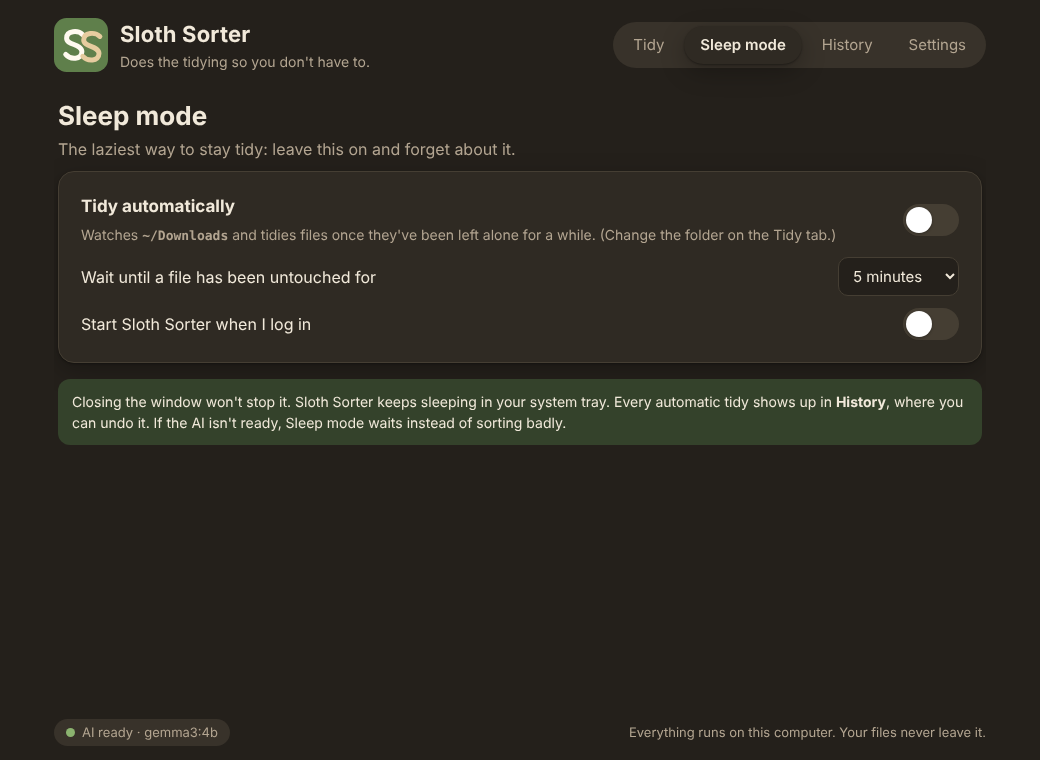
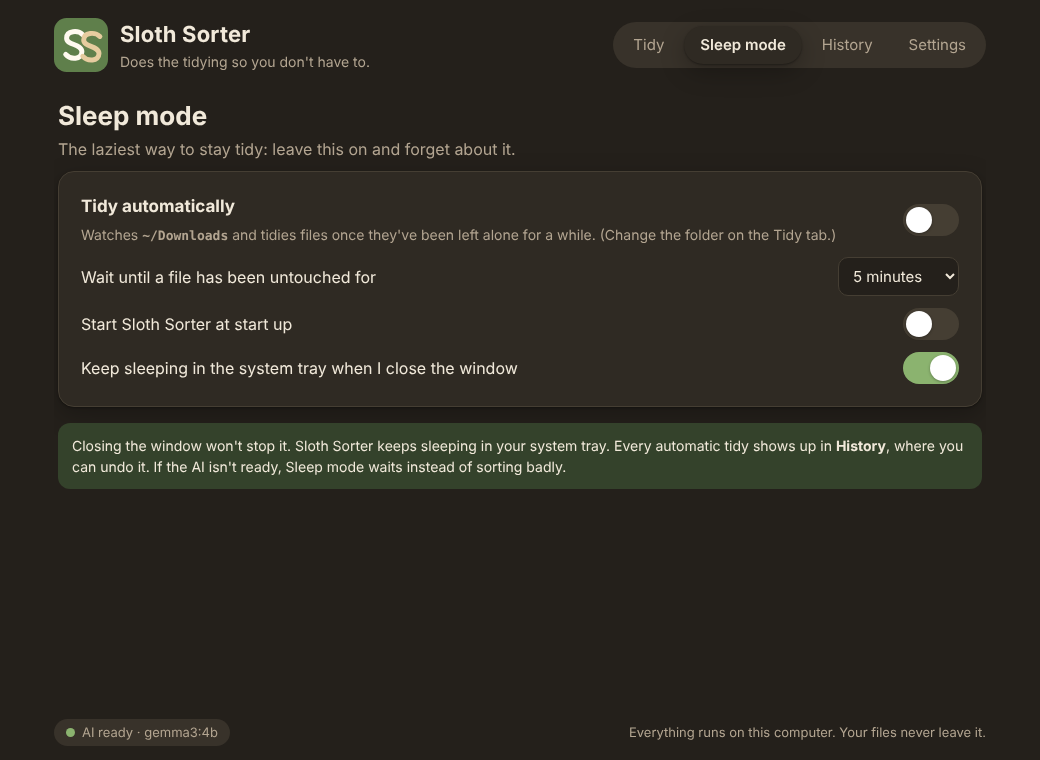
Add sleep mode feature and update UI for tray functionality

Changed region(s): [[0.0308, 0.4237, 0.9538, 0.6658]]

diff --git a/src/renderer/app.js b/src/renderer/app.js
@@ -377,18 +377,25 @@
           <select id="mins">${[2, 5, 10, 30, 60].map((m) => `<option value="${m}" ${m === s.autoMinutes ? 'selected' : ''}>${m} minutes</option>`).join('')}</select>
         </div>
         <div class="row spread">
-          <label for="login" class="grow">Start Sloth Sorter when I log in</label>
+          <label for="login" class="grow">Start Sloth Sorter at start up</label>
           <label class="switch"><input type="checkbox" id="login" ${s.startAtLogin ? 'checked' : ''}><span></span></label>
+        </div>
+        <div class="row spread">
+          <label for="tray" class="grow">Keep sleeping in the ${S.st.platform === 'darwin' ? 'menu bar' : 'system tray'} when I close the window</label>
+          <label class="switch"><input type="checkbox" id="tray" ${s.keepInTray !== false ? 'checked' : ''}><span></span></label>
         </div>
       </section>
       <div class="notice good">
-        Closing the window won't stop it. Sloth Sorter keeps sleeping in your ${S.st.platform === 'darwin' ? 'menu bar' : 'system tray'}.
+        ${s.keepInTray !== false
+          ? `Closing the window won't stop it. Sloth Sorter keeps sleeping in your ${S.st.platform === 'darwin' ? 'menu bar' : 'system tray'}.`
+          : 'Closing the window quits Sloth Sorter, and Sleep mode stops until you open it again.'}
         Every automatic tidy shows up in <b>History</b>, where you can undo it. If the AI isn't ready, Sleep mode waits instead of sorting badly.
       </div>
       ${S.lastAuto ? `<p class="small soft" style="margin-top:12px">Last automatic tidy: ${plural(S.lastAuto.moved, 'file', 'files')} at ${esc(new Date(S.lastAuto.at).toLocaleTimeString())}.</p>` : ''}`;
     $('#auto', main).onchange = async (e) => { await call('set-auto', e.target.checked); await refreshState(); toast(e.target.checked ? 'Sleep mode on. Go relax.' : 'Sleep mode off.'); };
     $('#mins', main).onchange = (e) => saveSettings({ autoMinutes: +e.target.value });
     $('#login', main).onchange = (e) => saveSettings({ startAtLogin: e.target.checked });
+    $('#tray', main).onchange = async (e) => { await saveSettings({ keepInTray: e.target.checked }); renderSleep(main); };
   }
 
   // ---------- HISTORY ----------
@@ -462,7 +469,7 @@
           <button class="btn danger" id="forget">Forget</button></div>
       </section>
       <section class="card small soft">
-        <b>Sloth Sorter ${esc(S.st.version)}</b> · open source (MIT). Powered by open-weight models running through Ollama on this computer.
+        <b>Sloth Sorter ${esc(S.st.version)}</b> is an open source (MIT) project created by <a href="https://github.com/Brage1025/" target="_blank" rel="noopener noreferrer">Brage1025</a>. Powered by open-weight models running through Ollama on this computer.
         It never uploads anything, and it never deletes your files.
       </section>`;
 

diff --git a/src/main.js b/src/main.js
@@ -257,8 +257,15 @@ function createWindow() {
     if (/^https:\/\//.test(url)) shell.openExternal(url);
     return { action: 'deny' };
   });
+  // A link must never replace the app's own page: open web links in the browser instead.
+  win.webContents.on('will-navigate', (e, url) => {
+    if (url !== win.webContents.getURL()) {
+      e.preventDefault();
+      if (/^https:\/\//.test(url)) shell.openExternal(url);
+    }
+  });
   win.on('close', (e) => {
-    if (!quitting && settings.autoMode && tray) {
+    if (!quitting && settings.autoMode && settings.keepInTray !== false && tray) {
       e.preventDefault(); // keep sleeping in the tray
       win.hide();
     }
@@ -338,6 +345,6 @@ if (!gotLock) {
   });
   app.on('before-quit', () => { quitting = true; if (cache) cache.flush(); });
   app.on('window-all-closed', () => {
-    if (process.platform !== 'darwin' && !(settings && settings.autoMode && tray)) app.quit();
+    if (process.platform !== 'darwin' && !(settings && settings.autoMode && settings.keepInTray !== false && tray)) app.quit();
   });
 }

diff --git a/src/renderer/styles.css b/src/renderer/styles.css
@@ -223,3 +223,6 @@ textarea::-webkit-scrollbar-thumb { border-width: 3px; }
 
 .folder-ico { color: var(--amber); vertical-align: -3px; flex: none; }
 .cat-name { display: inline-flex; align-items: center; gap: 8px; }
+
+a { color: var(--moss); font-weight: 600; text-decoration: underline; text-underline-offset: 2px; }
+a:hover { filter: brightness(1.15); }

diff --git a/src/core/config.js b/src/core/config.js
@@ -72,6 +72,7 @@ const DEFAULT_SETTINGS = {
   autoMode: false,
   autoMinutes: 5, // how long a file must sit untouched before auto mode picks it up
   startAtLogin: false,
+  keepInTray: true, // closing the window keeps Sleep mode running in the tray / menu bar
   setupSkipped: false,
 };
 

diff --git a/CHANGELOG.md b/CHANGELOG.md
@@ -5,12 +5,16 @@ All notable changes to this project are listed here. The format follows [Keep a 
 ## Unreleased
 
 ### Added
+- Sleep mode: option to keep sleeping in the tray or menu bar when the window is closed (on by default).
 - `sample-files` folder with made-up messy files for trying the app.
 - Dark and light appearance in Settings (dark by default, or match the computer).
 - Settings: "Forget what I've learned" button (with an "are you sure" box) that clears remembered results so the next scan looks at every file again.
 - Tests run automatically on Windows, macOS and Linux for every push and pull request.
 - CONTRIBUTING guide and this changelog.
 - README section on current limits.
+
+### Changed
+- "Start Sloth Sorter when I log in" is now worded "Start Sloth Sorter at start up".
 
 ### Fixed
 - Files created a moment ago could be skipped by a scan on Windows and macOS (clock rounding). Found by the new cross-platform tests.
